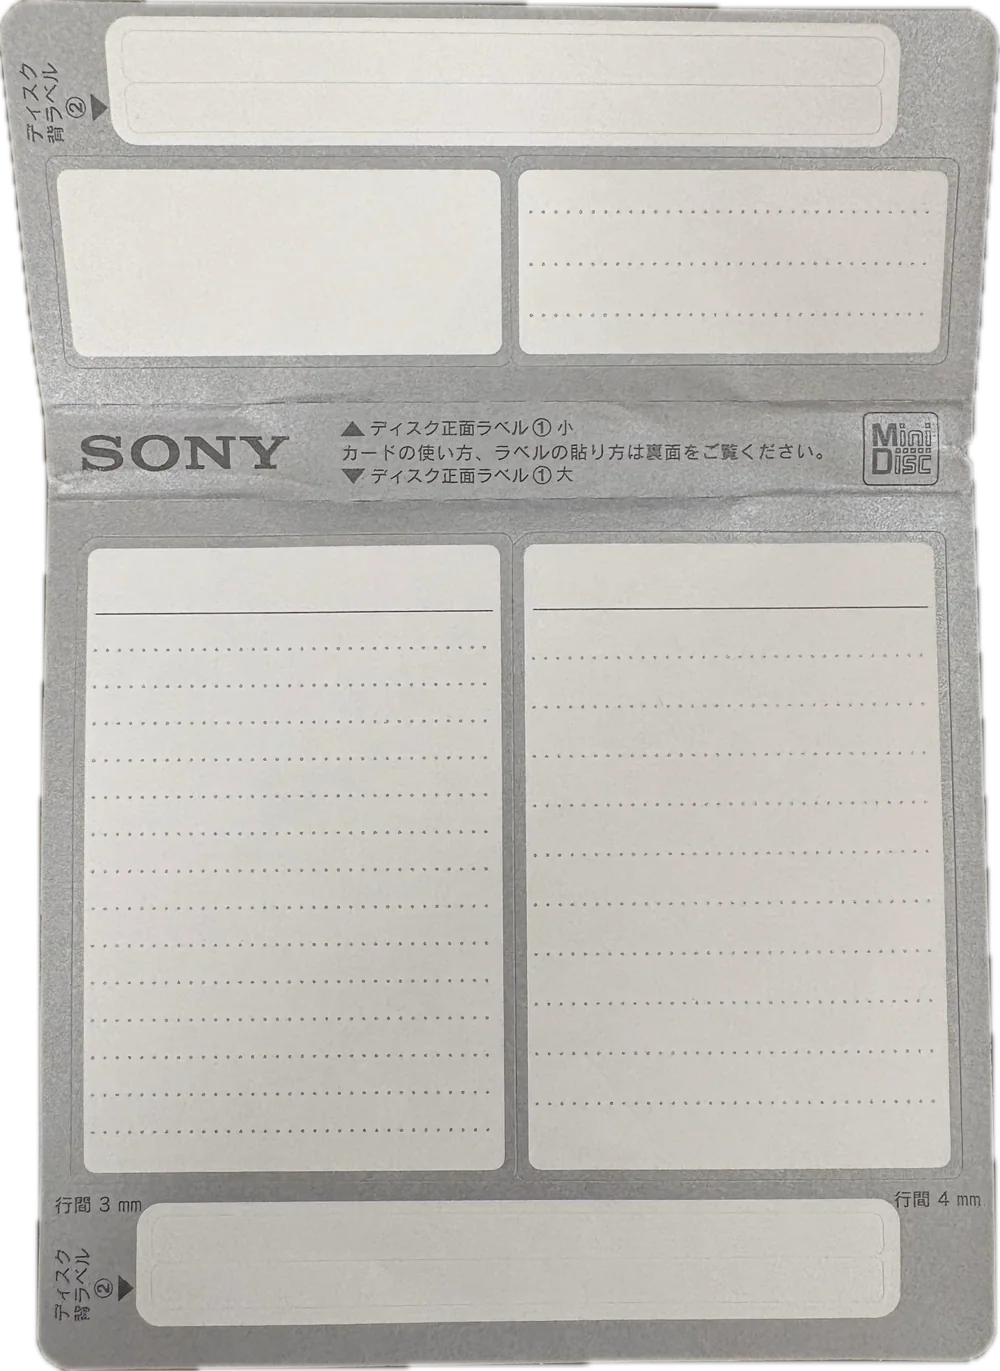
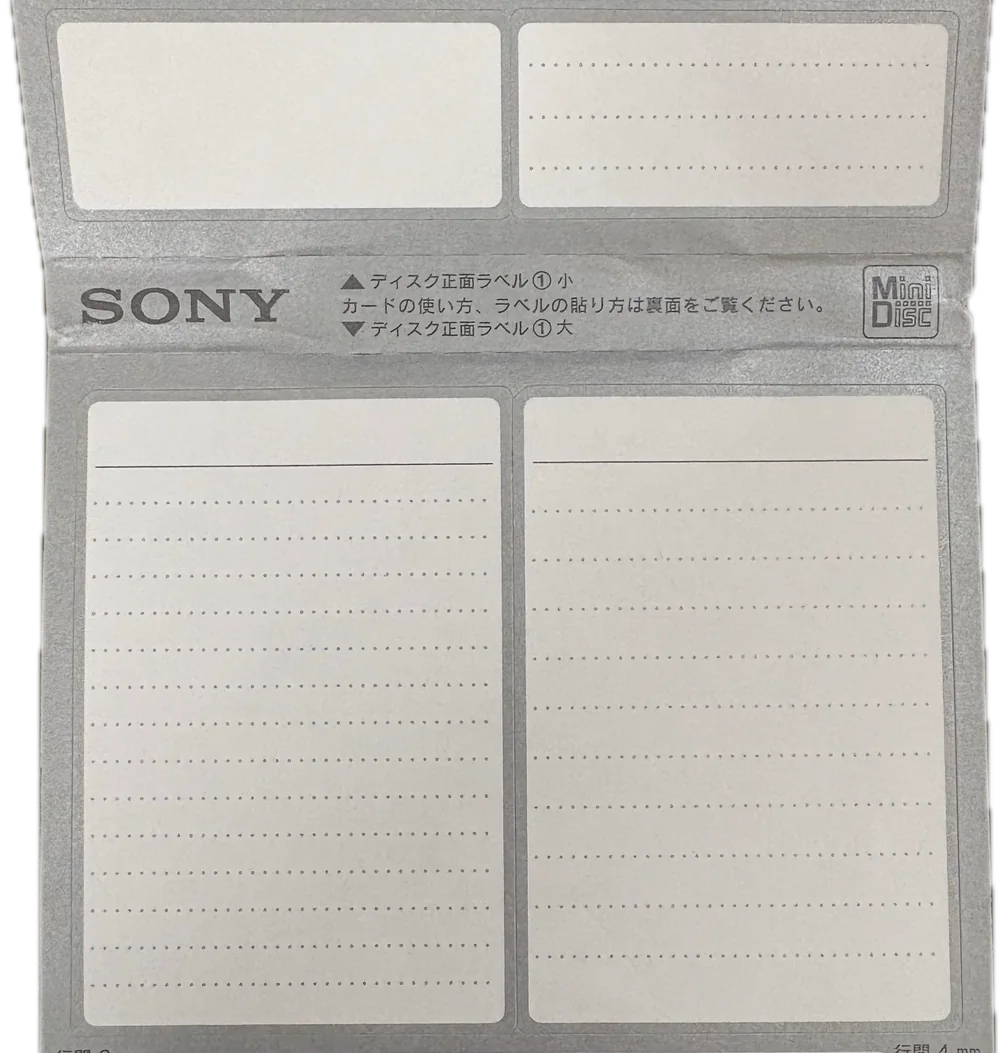
docs(site): trim the label card's spine labels, Mac library above lyrics
The label card is cut just below its top spine label and just above its bottom
one, and the handwriting moves with it. In the concert hall the Mac library
grid now comes first, with Now Playing and lyrics under it.

diff --git a/docs/index.html b/docs/index.html
@@ -115,10 +115,10 @@
     <section class="hall wrap" id="features" aria-labelledby="hall-title">
       <div class="hall__grid">
         <figure class="shot shot--mac hall__a">
-          <img src="assets/mac-lyrics.webp" width="1200" height="762" loading="lazy" alt="Hi-MD on Mac: Now Playing with synced lyrics beside the album cover.">
+          <img src="assets/mac-albums.webp" width="1200" height="762" loading="lazy" alt="Hi-MD on Mac: the album grid.">
         </figure>
         <figure class="shot shot--mac hall__d">
-          <img src="assets/mac-albums.webp" width="1200" height="762" loading="lazy" alt="Hi-MD on Mac: the album grid.">
+          <img src="assets/mac-lyrics.webp" width="1200" height="762" loading="lazy" alt="Hi-MD on Mac: Now Playing with synced lyrics beside the album cover.">
         </figure>
         <figure class="phone hall__p">
           <img src="screenshots/ios/02-now-playing.jpg" width="553" height="1200" loading="lazy" alt="Hi-MD on iPhone: Now Playing, with the album cover, controls and volume.">
@@ -138,7 +138,7 @@
     <!-- The label card: Hi-MD's features, handwritten -->
     <section class="cardsec wrap" id="label" aria-label="Features">
       <figure class="labelcard">
-        <img src="assets/photo-label-card.webp" width="1000" height="1371" loading="lazy" alt="A MiniDisc label sheet, filled in by hand with Hi-MD&apos;s features.">
+        <img src="assets/photo-label-card.webp" width="1000" height="1053" loading="lazy" alt="A MiniDisc label sheet, filled in by hand with Hi-MD&apos;s features.">
         <figcaption class="labelcard__notes">
           <p class="labelcard__title">Hi-MD</p>
           <p class="labelcard__spine">Features</p>

diff --git a/docs/style.css b/docs/style.css
@@ -695,18 +695,18 @@ a:hover { text-decoration-thickness: 2px; }
   line-height: 1;
 }
 .labelcard__notes p, .labelcard__notes ul { position: absolute; margin: 0; padding: 0; list-style: none; }
-.labelcard__title { left: 12%; top: 13.5%; font-size: 13cqw; transform: rotate(-3deg); }
-.labelcard__spine { left: 57%; top: 13.2%; font-size: 10.5cqw; transform: rotate(-2deg); }
+.labelcard__title { left: 12%; top: 3.62%; font-size: 13cqw; transform: rotate(-3deg); }
+.labelcard__spine { left: 57%; top: 3.23%; font-size: 10.5cqw; transform: rotate(-2deg); }
 .labelcard__side li { display: flex; align-items: flex-end; white-space: nowrap; }
 /* One note on every other dotted line, so the hand can be large. Each list
    starts one note-height above its first line; the side's name sits just
    above, on the ruled header. */
 .labelcard__head { position: absolute; bottom: 100%; left: 0; height: auto !important; font-size: 1.05em; }
 /* Side A: 3 mm lines (2.75% of the card's height) */
-.labelcard__side--a { left: 10.5%; top: 44.06%; width: 39%; font-size: 5.6cqw; }
+.labelcard__side--a { left: 10.5%; top: 43.41%; width: 39%; font-size: 5.6cqw; }
 .labelcard__side--a li { height: 7.54cqw; }
 /* Side B: 4 mm lines (3.65%) */
-.labelcard__side--b { left: 54.5%; top: 44.35%; width: 39%; font-size: 6.6cqw; }
+.labelcard__side--b { left: 54.5%; top: 43.78%; width: 39%; font-size: 6.6cqw; }
 .labelcard__side--b li { height: 10cqw; }
 
 /* ------------------------------------------------------------------ */
